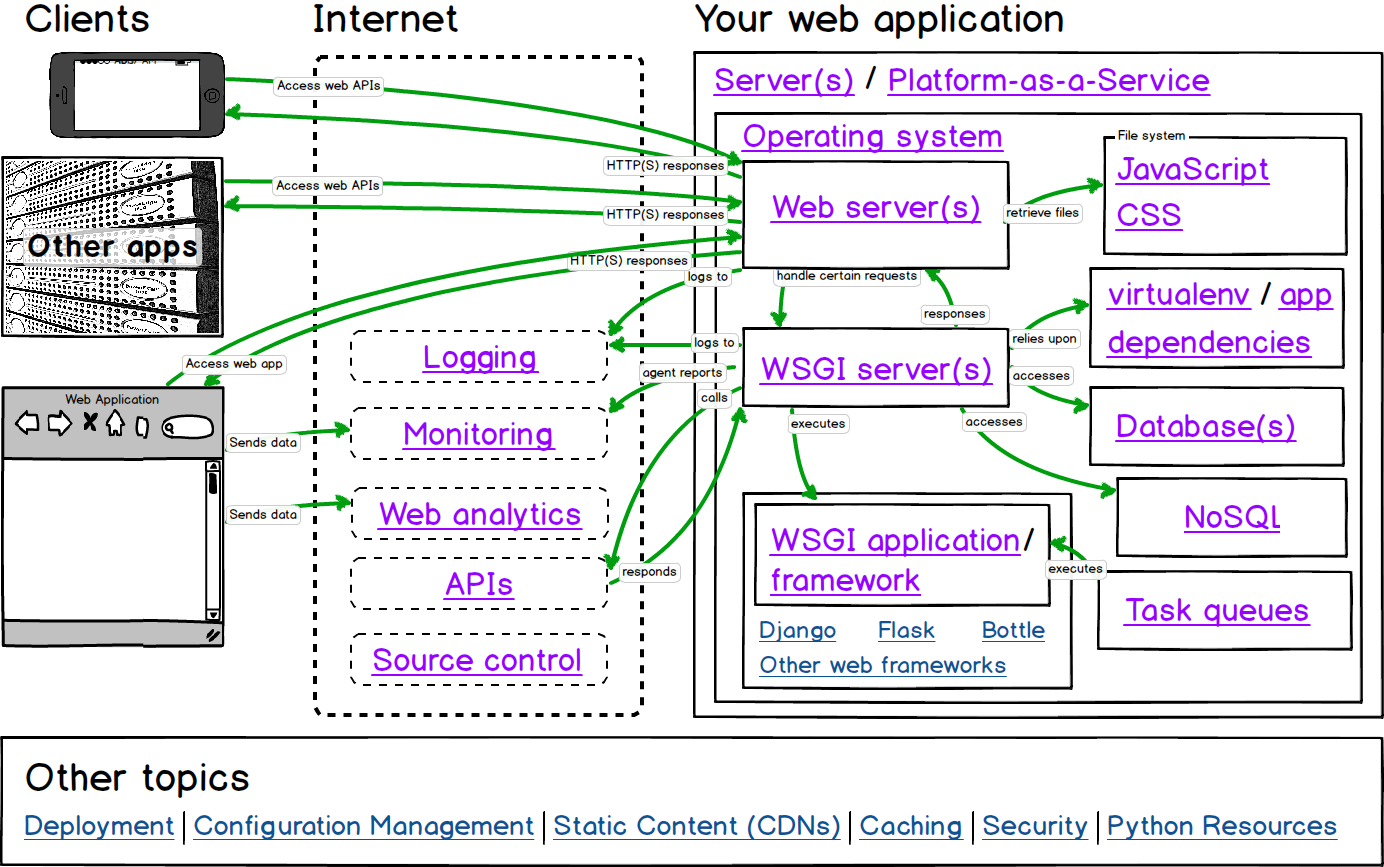
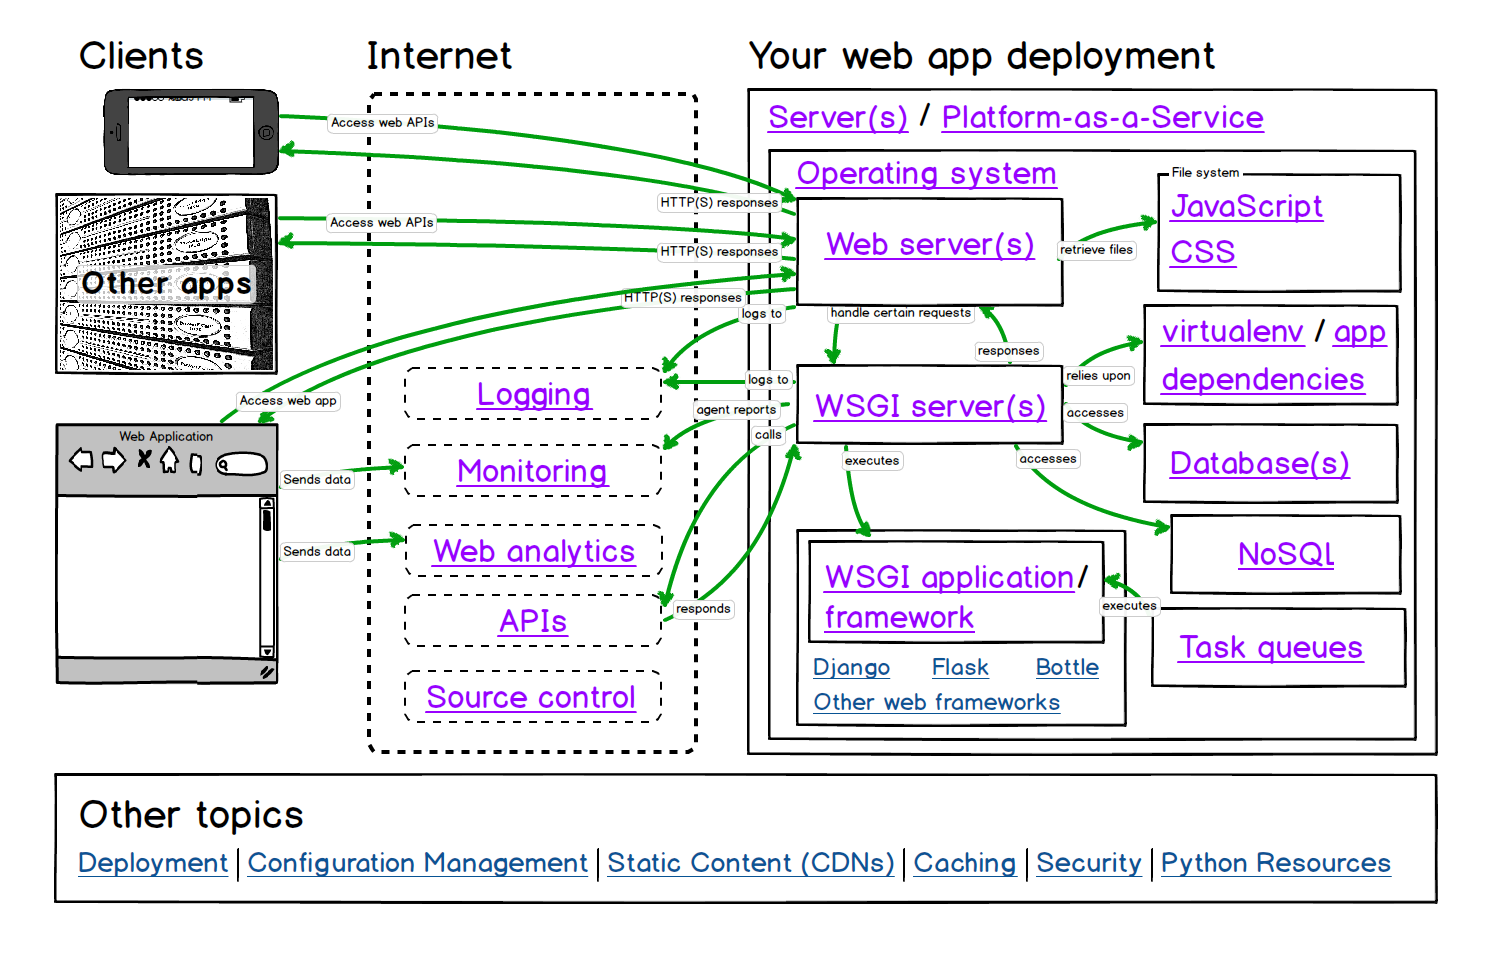
tweaking front page map

Changed region(s): [[0.0, 0.0, 1.0, 1.0]]

diff --git a/change-log.html b/change-log.html
@@ -46,6 +46,8 @@ the
 <h2>2014</h2>
 <h3>July</h3>
 <ul>
+<li>Added a map to the front page. May move that elsewhere later though based
+  on feedback.</li>
 <li>Merged a pull request for new REST frameworks.</li>
 <li>Lots of new Django, Flask and task queue resources.</li>
 <li>Added two new Python libraries lists to the Best Python Resources page.</li>
